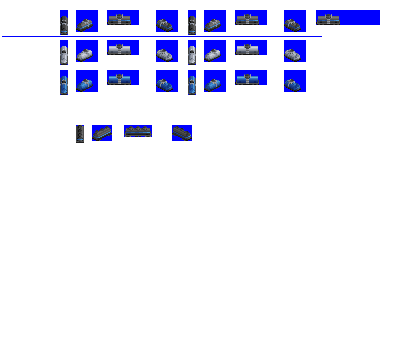
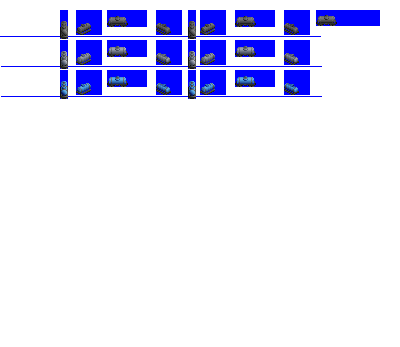
Change: revised sprite and length for gen 1 ng antelope tank car

Changed region(s): [[0.15, 0.0288, 0.87, 0.2882], [0.18, 0.3458, 0.39, 0.4323], [0.42, 0.3458, 0.48, 0.4035]]

diff --git a/src/vehicles/tank_cars.py b/src/vehicles/tank_cars.py
@@ -317,13 +317,12 @@ def main():
                         wagon_generation = 1,
                         replacement_id = '-none',
                         intro_date = 1880,
-                        vehicle_life = 40,
-                        use_legacy_spritesheet = True)
+                        vehicle_life = 40)
 
     consist.add_unit(Wagon(consist = consist,
                             capacity_freight = 25,
                             weight = 16,
-                            vehicle_length = 6))
+                            vehicle_length = 5))
 
     options = {'template': 'tank_car_ng_antelope_gen_1_template.png'}
 
